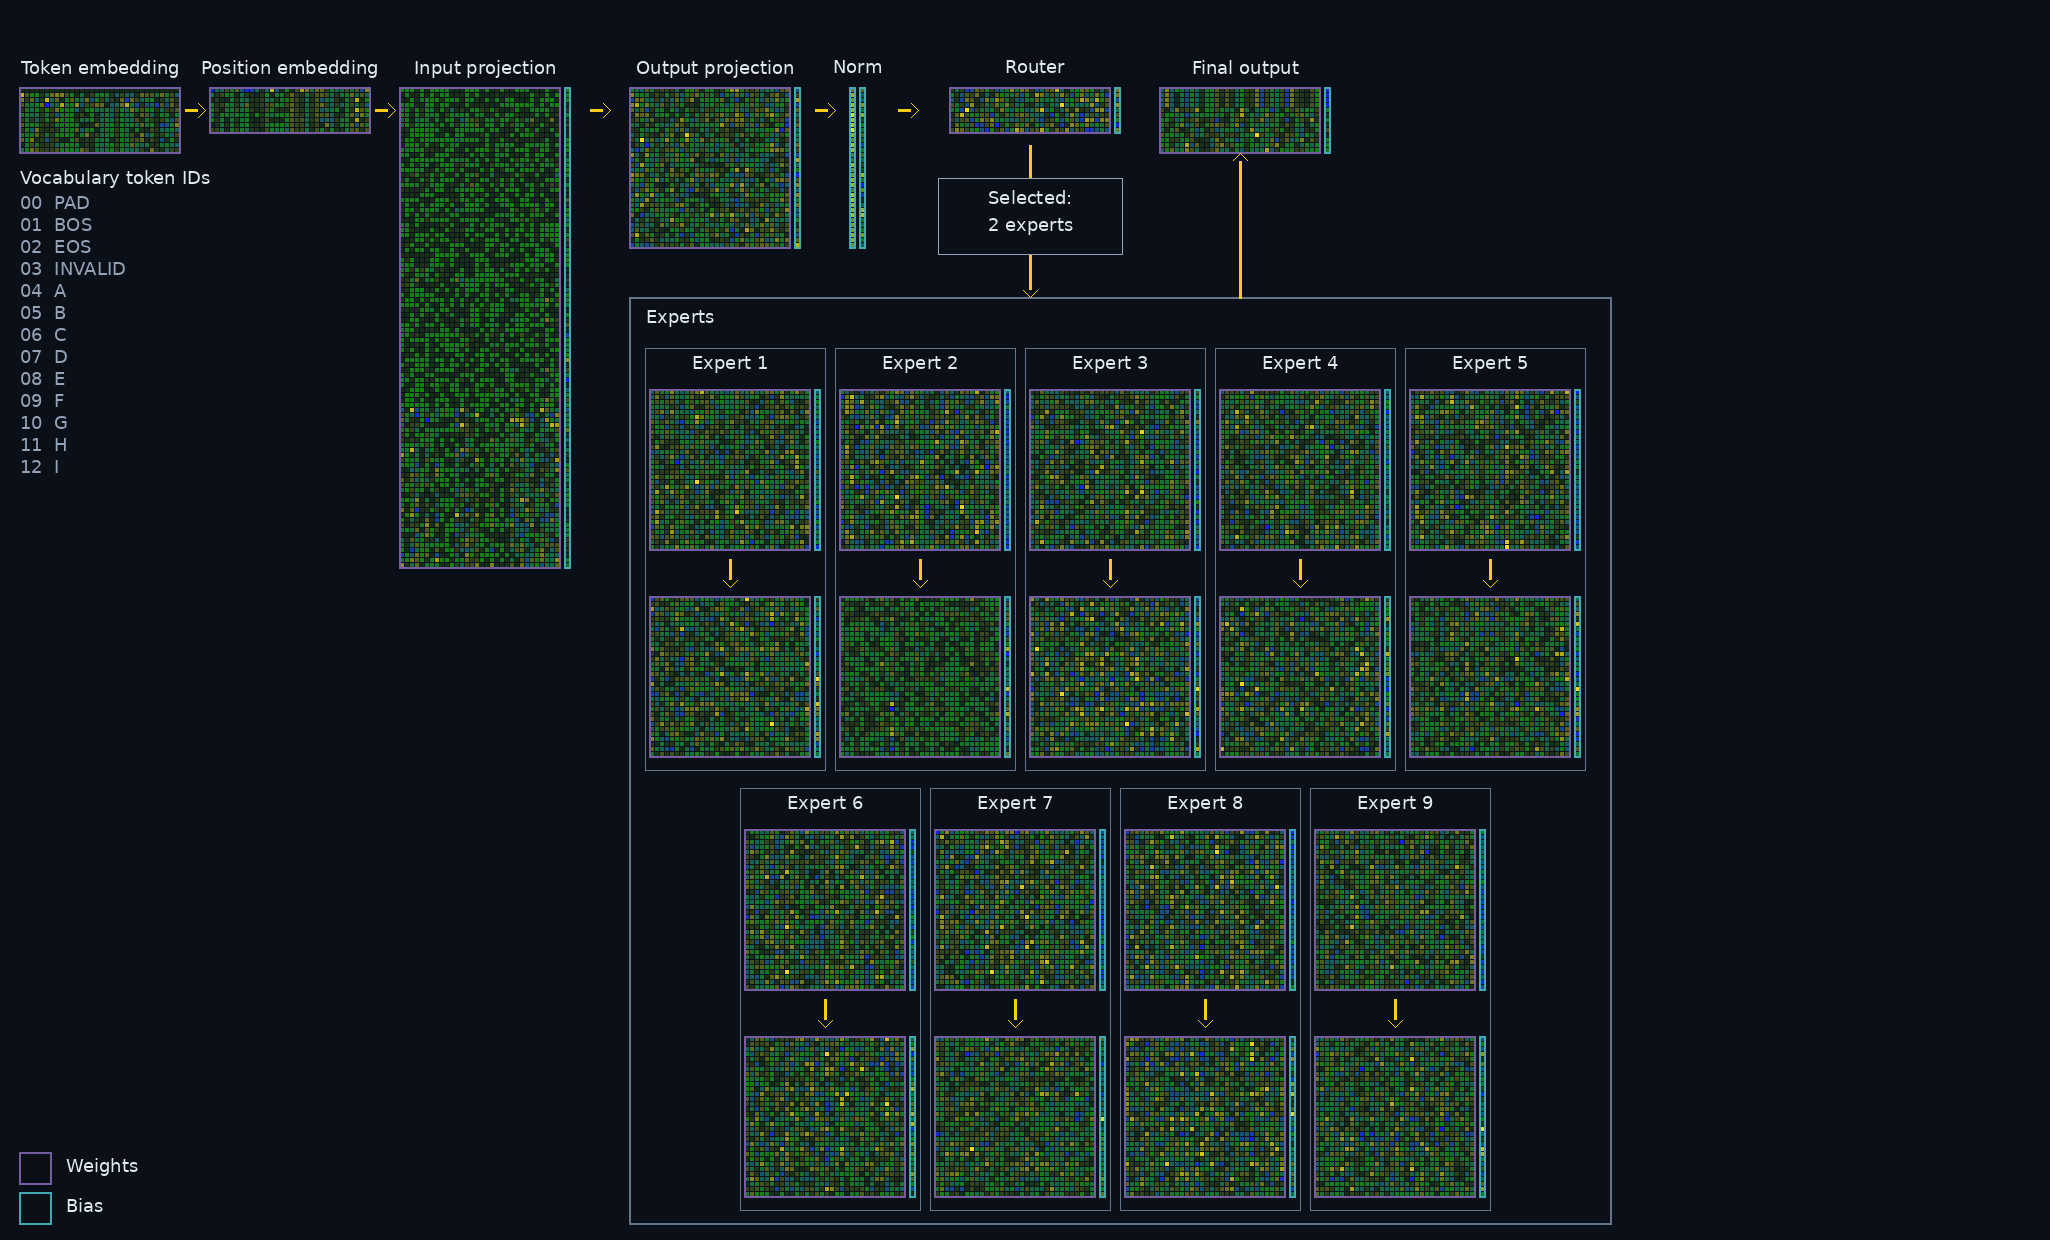
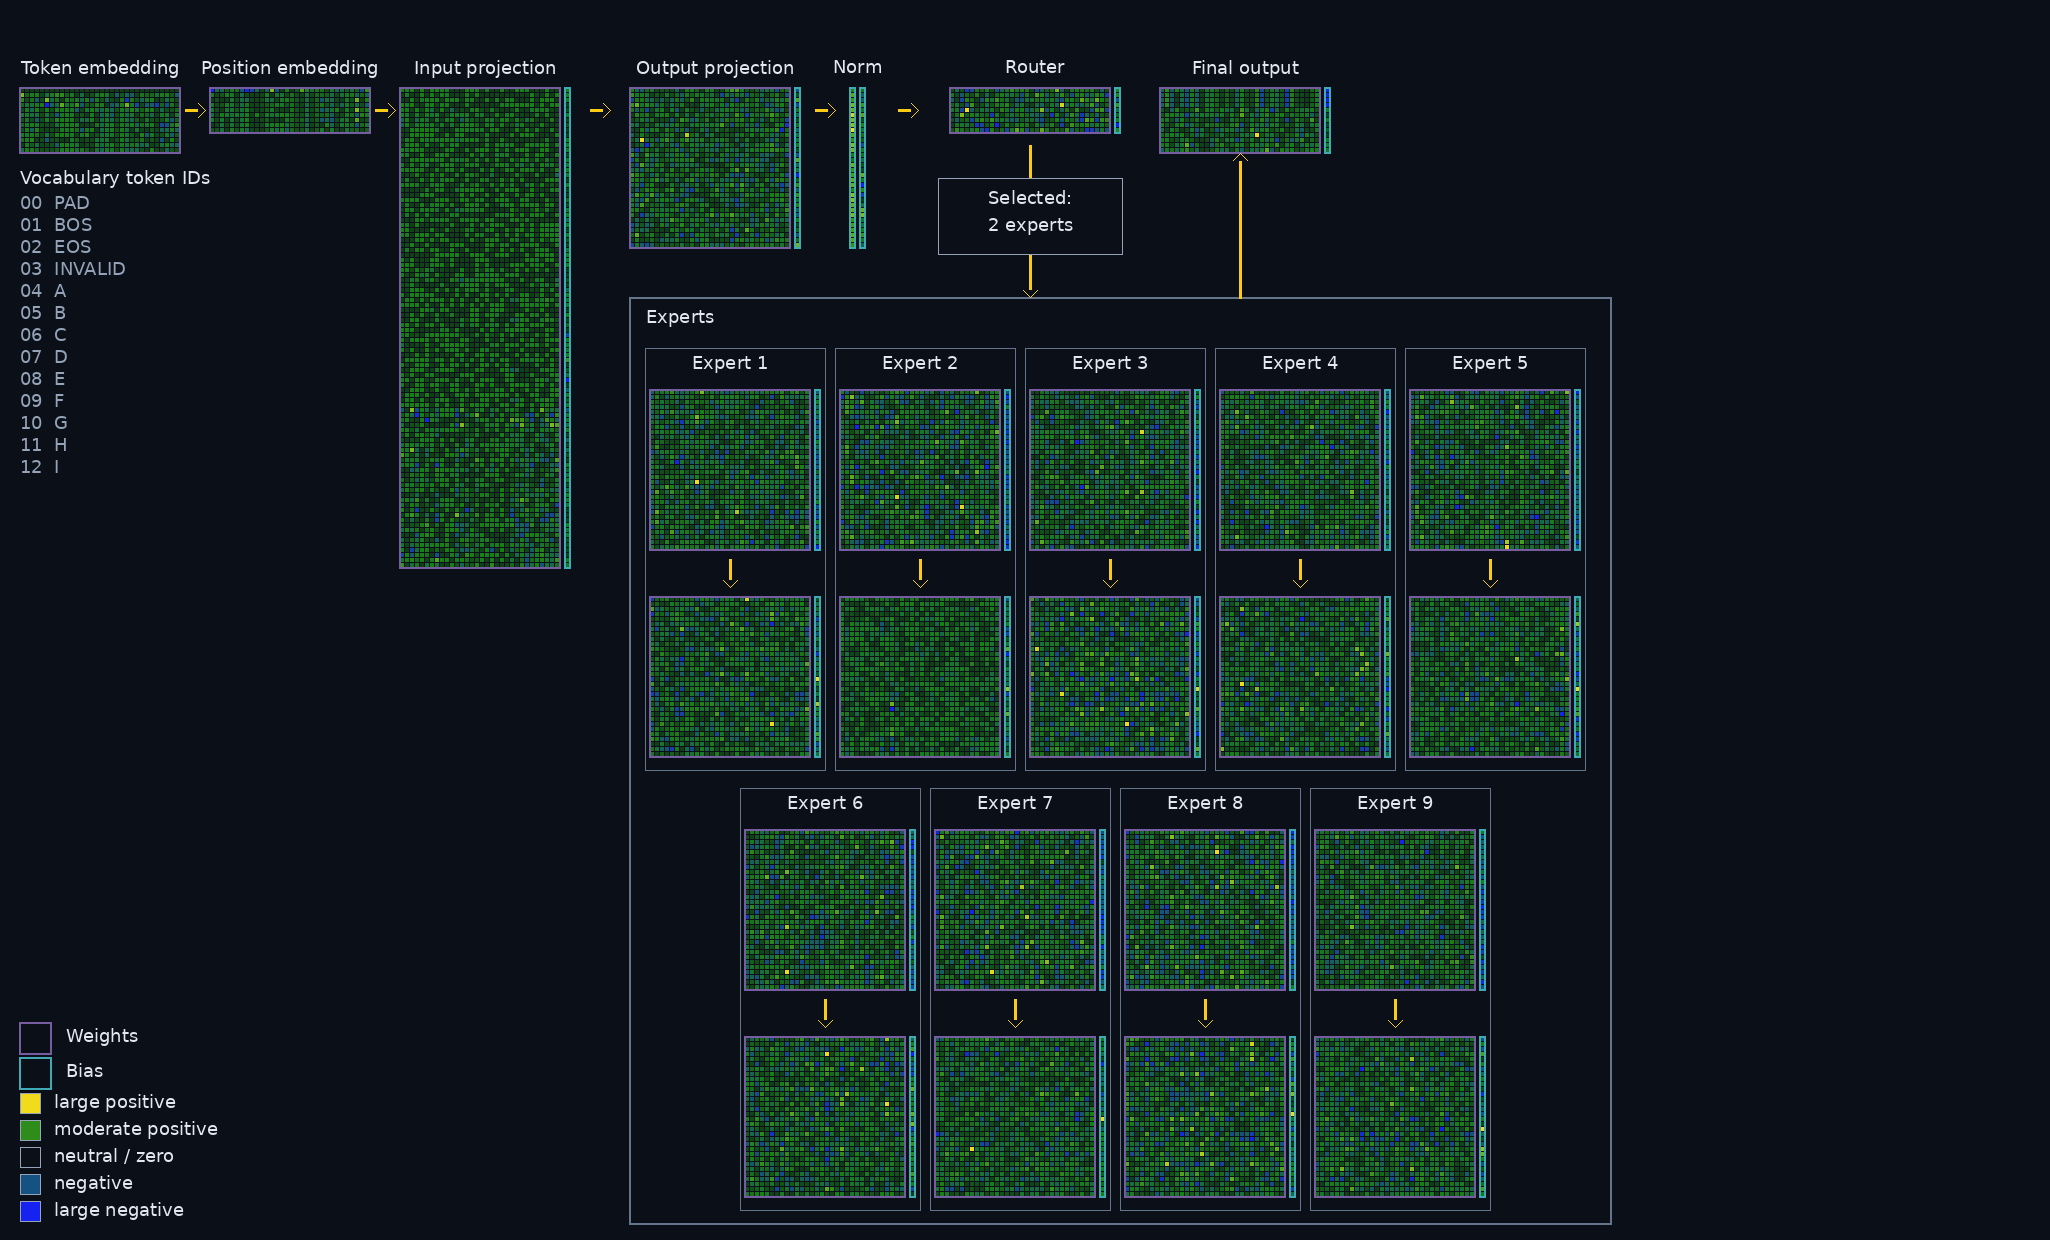
Add tensor inspector value legend

diff --git a/tools/tensor_inspector.py b/tools/tensor_inspector.py
@@ -85,8 +85,10 @@ def _ellipse(rgb: bytearray, width: int, center_x: int, center_y: int, radius_x:
 
 def _color(value: float) -> tuple[int, int, int]:
     strength = min(abs(value), 1.0)
-    base = int(18 + 222 * strength)
-    return (22, int(35 + 95 * (1 - strength)), base) if value < 0 else (base, int(45 + 175 * strength), 26)
+    if value < 0:
+        return (22, int(35 + 95 * (1 - strength)), int(18 + 222 * strength))
+    # Keep moderate positive values visibly green before high positive values transition to yellow.
+    return (int(18 + 222 * strength ** 3), int(60 + 160 * strength), 26)
 
 
 def _checkpoint_state(source: Path) -> dict[str, torch.Tensor]:
@@ -228,17 +230,27 @@ def render_checkpoint_inspector(source: Path) -> tuple[bytes, dict[str, object]]
     output_return_x, output_matrix_bottom = 1240, 153
     _arrow(rgb, width, output_return_x, expert_top, output_return_x, output_matrix_bottom)
 
-    # Lower-left legend keeps the border semantics visible without competing with the column headers.
-    legend_x, weights_y, bias_y = 20, 1153, 1193
-    _rectangle(rgb, width, legend_x, weights_y, 30, 30, _WEIGHT_BORDER, 2)
-    _text(rgb, width, legend_x + 46, weights_y + 5, "Weights", _LABEL)
-    _rectangle(rgb, width, legend_x, bias_y, 30, 30, _BIAS_BORDER, 2)
-    _text(rgb, width, legend_x + 46, bias_y + 5, "Bias", _LABEL)
+    # Lower-left legend keeps border and per-value color semantics visible without competing with the column headers.
+    legend_x = 20
+    _rectangle(rgb, width, legend_x, 1023, 30, 30, _WEIGHT_BORDER, 2)
+    _text(rgb, width, legend_x + 46, 1028, "Weights", _LABEL)
+    _rectangle(rgb, width, legend_x, 1058, 30, 30, _BIAS_BORDER, 2)
+    _text(rgb, width, legend_x + 46, 1063, "Bias", _LABEL)
+    for y, color, label in (
+        (1093, _color(1.0), "large positive"),
+        (1120, _color(0.5), "moderate positive"),
+        (1147, (11, 16, 24), "neutral / zero"),
+        (1174, _color(-0.5), "negative"),
+        (1201, _color(-1.0), "large negative"),
+    ):
+        _fill_rectangle(rgb, width, legend_x, y, 20, 20, color)
+        _rectangle(rgb, width, legend_x, y, 20, 20, _MUTED, 1)
+        _text(rgb, width, legend_x + 34, y + 1, label, _LABEL)
 
     metadata = {
-        "format": "crystal-9-tensor-inspector-v16", "source": source.name,
+        "format": "crystal-9-tensor-inspector-v18", "source": source.name,
         "source_sha256": hashlib.sha256(source.read_bytes()).hexdigest(), "tensor_count": len(state),
-        "normalization": "per-tensor symmetric max-absolute", "layout": "architecture-flow-v16",
+        "normalization": "per-tensor symmetric max-absolute", "layout": "architecture-flow-v18",
         "bias_alignment": "vertical output-row axis", "sections": ["inputs", "attention", "norm_router", "experts", "output"],
         "legend": {"WEIGHTS": "matrix; rows are output features", "BIAS": "bias column; one value per output row", "B": "bias column; one value per output row"},
         "expert_layout": "five Expert boxes over four Expert boxes; each contains its first and second layer",
@@ -248,7 +260,9 @@ def render_checkpoint_inspector(source: Path) -> tuple[bytes, dict[str, object]]
         "router_path": "continuous downward arrow touching the Experts outline",
         "expert_return_path": "straight upward arrow ends below Final output matrix",
         "intra_expert_arrows": "compact clear gap between first and second layer matrices",
-        "border_legend": {"dim purple": "weight matrix", "dim cyan": "bias vector"}, "experts_outline": "slate gray",
+        "border_legend": {"dim purple": "weight matrix", "dim cyan": "bias vector"},
+        "value_legend": {"yellow": "large positive", "green": "moderate positive", "black": "neutral / zero", "blue": "negative", "bright blue": "large negative"},
+        "experts_outline": "slate gray",
         "tensors": inventory, "width": width, "height": height,
     }
     rows = b"".join(b"\0" + rgb[row * width * 3 : (row + 1) * width * 3] for row in range(height))

diff --git a/tests/test_tensor_inspector.py b/tests/test_tensor_inspector.py
@@ -15,7 +15,7 @@ def test_checkpoint_inspector_renders_actual_tensor_inventory_as_png():
     assert metadata["tensors"]["attention.in_proj_weight"]["shape"] == [96, 32]
     assert metadata["tensors"]["experts.0.0.weight"]["shape"] == [32, 32]
     assert metadata["normalization"] == "per-tensor symmetric max-absolute"
-    assert metadata["layout"] == "architecture-flow-v16"
+    assert metadata["layout"] == "architecture-flow-v18"
     assert metadata["bias_alignment"] == "vertical output-row axis"
     assert metadata["sections"][-2:] == ["experts", "output"]
     assert metadata["legend"]["B"] == "bias column; one value per output row"
@@ -30,4 +30,5 @@ def test_checkpoint_inspector_renders_actual_tensor_inventory_as_png():
     assert metadata["expert_return_path"] == "straight upward arrow ends below Final output matrix"
     assert metadata["intra_expert_arrows"] == "compact clear gap between first and second layer matrices"
     assert metadata["border_legend"] == {"dim purple": "weight matrix", "dim cyan": "bias vector"}
+    assert metadata["value_legend"] == {"yellow": "large positive", "green": "moderate positive", "black": "neutral / zero", "blue": "negative", "bright blue": "large negative"}
     assert metadata["experts_outline"] == "slate gray"

diff --git a/tools/export_tensor_inspectors.py b/tools/export_tensor_inspectors.py
@@ -31,7 +31,7 @@ def main() -> None:
             "tensor_count": metadata["tensor_count"], "width": metadata["width"], "height": metadata["height"],
             "normalization": metadata["normalization"], "derived": True,
         })
-    (OUTPUT.parent / "inspectors.json").write_text(json.dumps({"format": "crystal-9-tensor-inspector-v16", "inspectors": inspectors}, indent=2) + "\n")
+    (OUTPUT.parent / "inspectors.json").write_text(json.dumps({"format": "crystal-9-tensor-inspector-v18", "inspectors": inspectors}, indent=2) + "\n")
 
 
 if __name__ == "__main__":
